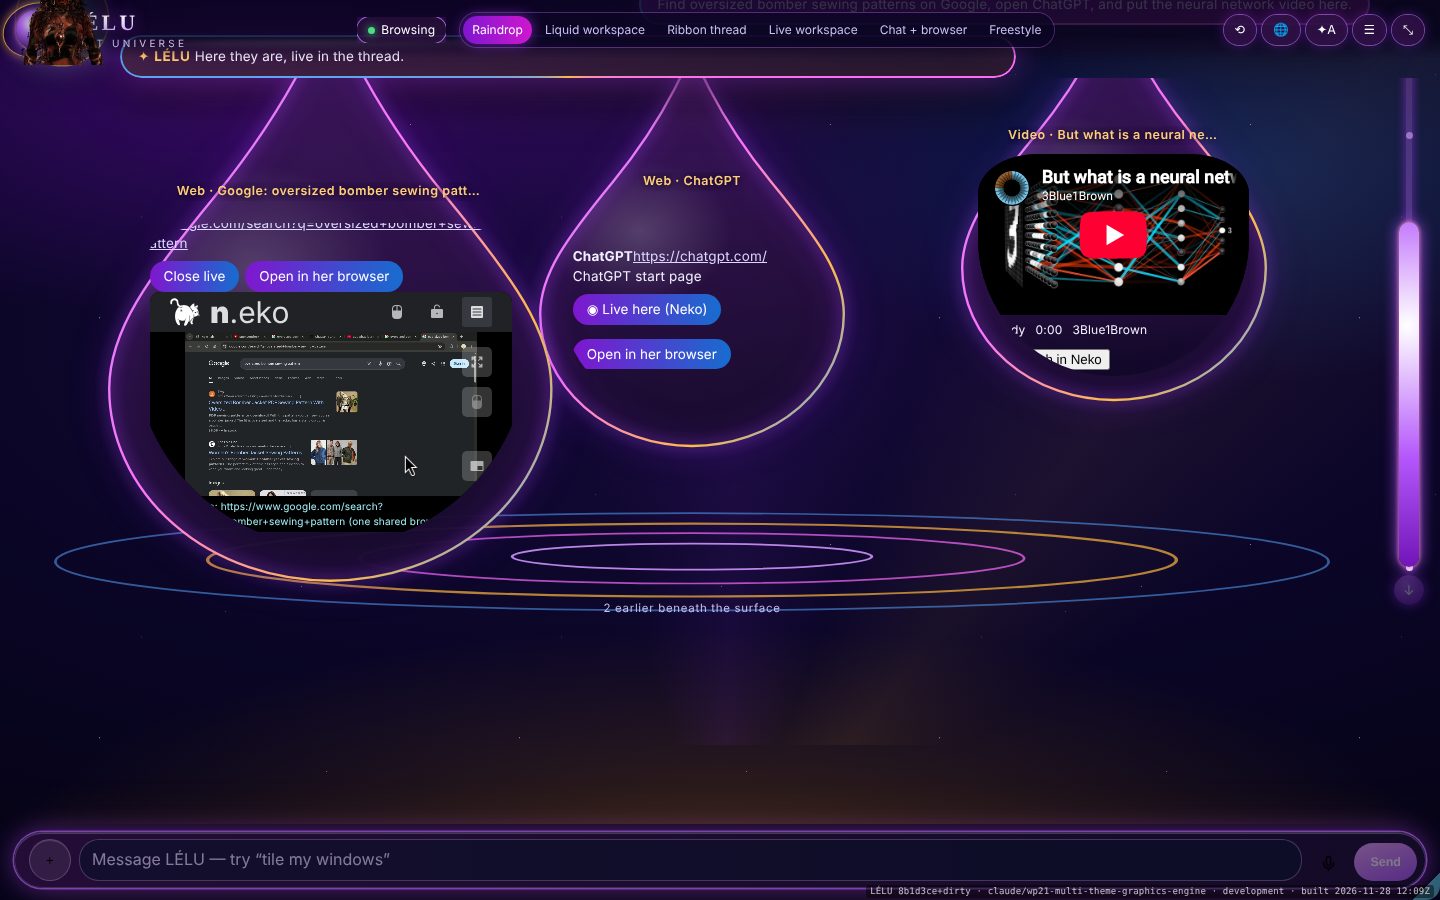
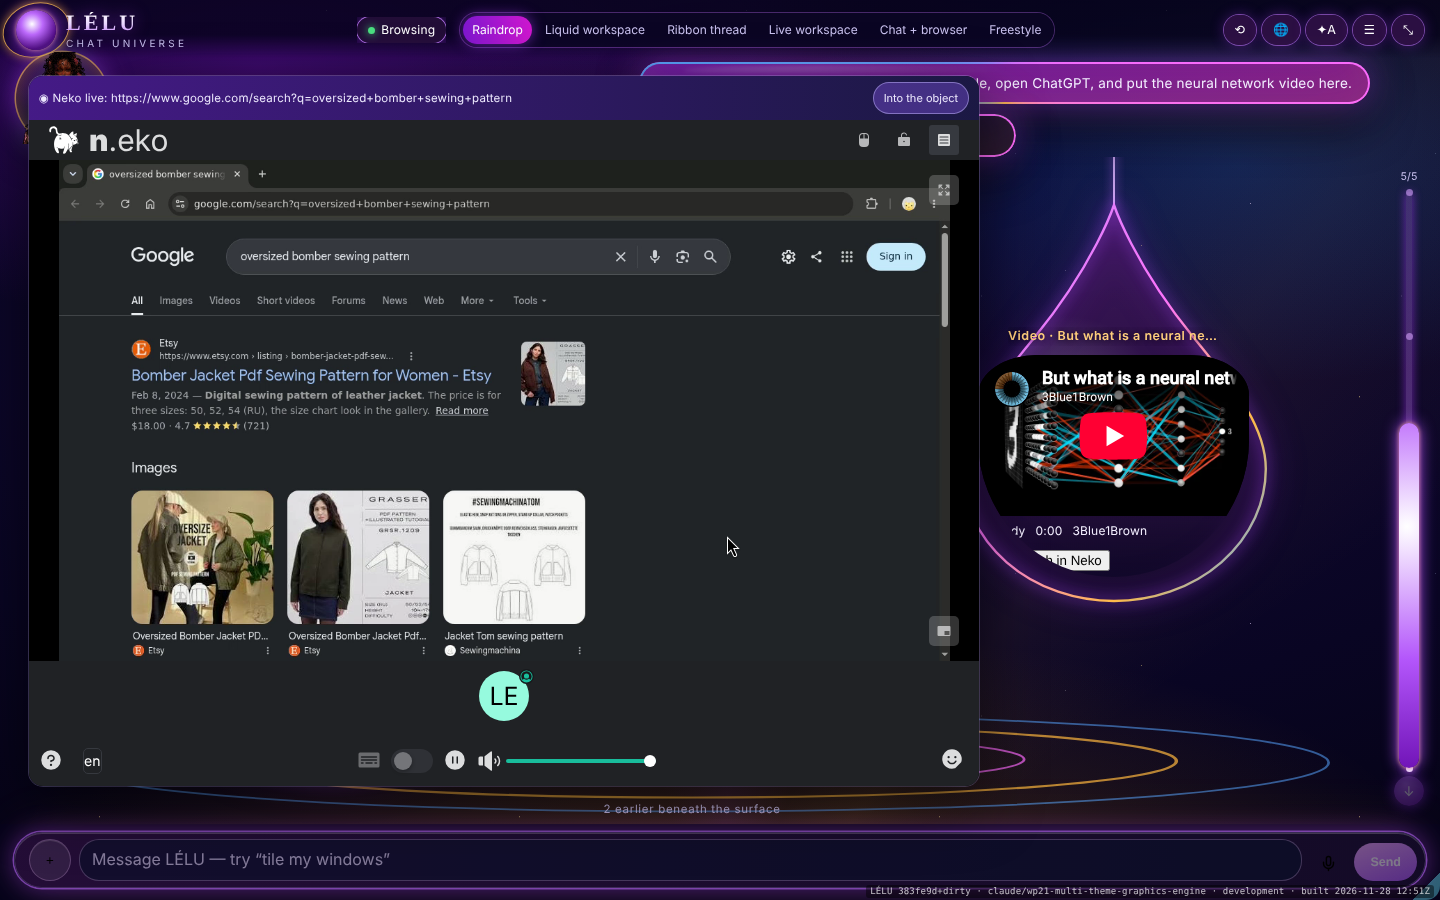
Neko in every thread format with room to read: opens large from small objects, one tab, no restore bubble
Live pages inside a raindrop, a workspace card or a ~200 px Ribbon row were unreadable, so objects
narrower than 560 px or shorter than 460 px open the live view large beside the chat. Neko piled up
tabs because the previous tab was remembered only in the dev server; navigation now closes every other
page tab, in a queue, because two concurrent navigations (React dev effects) closed each other's tabs.
The crash-restore bubble is hidden. All six variants verified live with screenshots.

Claude-Session: https://claude.ai/code/session_017r5V6N97c4ksPFc1eZj1j6

diff --git a/src/app/scene/genesis/neko/NekoLive.tsx b/src/app/scene/genesis/neko/NekoLive.tsx
@@ -9,7 +9,8 @@
  * Neko is ONE browser. Every NekoLive on screen shows that same browser; the most recent navigation wins.
  */
 
-import { useEffect, useState } from "react";
+import { useEffect, useLayoutEffect, useRef, useState, type CSSProperties } from "react";
+import { createPortal } from "react-dom";
 import { getEnvironment } from "../../../../core/Environment";
 
 export type NekoAvailability = "checking" | "reachable" | "unavailable" | "unconfigured";
@@ -63,17 +64,55 @@ export default function NekoLive({ url, height = 360, surface }: { url: string; 
     };
   }, [url]);
 
+  // Room: a live page squeezed into a small object (a raindrop, a workspace card) is unreadable, so in
+  // anything narrower than 560 px, or in an object shorter than 460 px, it opens LARGE beside the chat; "Into the object" puts it back.
+  const anchor = useRef<HTMLDivElement | null>(null);
+  const [large, setLarge] = useState<boolean | null>(null);
+  useLayoutEffect(() => {
+    if (large !== null || !anchor.current) return;
+    // Too narrow, or inside an object too short to show a page (Ribbon rows are ~200 px: measured).
+    const box = anchor.current.getBoundingClientRect();
+    const holder = anchor.current.closest<HTMLElement>("[data-thread-object], .rd-drop");
+    setLarge(box.width < 560 || (holder ? holder.getBoundingClientRect().height < 460 : false));
+  }, [large]);
+
   const fallback = getEnvironment().nekoUrl.trim();
+  const frame = (
+    <iframe
+      src={client ?? fallback}
+      title={`Neko live: ${url}`}
+      allow="clipboard-read; clipboard-write; fullscreen; autoplay; camera; microphone"
+      style={{ flex: 1, width: "100%", border: "none", display: "block" }}
+    />
+  );
+  const status = nav ? (nav.ok ? nav.url : `could not open ${url}`) : `opening ${url}…`;
+  const btn: CSSProperties = { font: "inherit", fontSize: 11, color: "#ede9fe", background: "rgba(139,92,246,0.35)", border: "1px solid rgba(196,181,253,0.5)", borderRadius: 999, padding: "2px 10px", cursor: "pointer" };
+  const attrs = { "data-neko-surface": surface, "data-neko-nav": nav ? (nav.ok ? "ok" : "failed") : "", "data-neko-live": nav?.ok ? nav.url : "", "data-neko-size": large ? "large" : "inline" };
+
+  if (large && typeof document !== "undefined") {
+    return (
+      <div ref={anchor} style={{ fontSize: 11, color: "#c4b5fd", padding: "4px 0" }}>
+        ◉ Live beside the chat{" "}
+        <button type="button" style={btn} onClick={() => setLarge(false)}>Into the object</button>
+        {createPortal(
+          <div className="neko-live neko-live-large" {...attrs} style={{ position: "fixed", left: "2vw", top: 76, width: "min(980px, 66vw)", height: "calc(100vh - 190px)", zIndex: 2147483000, display: "flex", flexDirection: "column", borderRadius: 14, overflow: "hidden", background: "#000", boxShadow: "0 18px 60px rgba(0,0,0,0.6), 0 0 0 1px rgba(196,181,253,0.35)" }}>
+            <div style={{ display: "flex", alignItems: "center", gap: 8, padding: "6px 10px", fontSize: 11.5, color: "#ede9fe", background: "linear-gradient(90deg, rgba(76,29,149,0.9), rgba(30,27,75,0.9))" }}>
+              <span style={{ flex: 1, overflow: "hidden", textOverflow: "ellipsis", whiteSpace: "nowrap" }}>◉ Neko live: {status}</span>
+              <button type="button" style={btn} onClick={() => setLarge(false)}>Into the object</button>
+            </div>
+            {frame}
+          </div>,
+          document.body,
+        )}
+      </div>
+    );
+  }
   return (
-    <div className="neko-live" data-neko-surface={surface} data-neko-nav={nav ? (nav.ok ? "ok" : "failed") : ""} data-neko-live={nav?.ok ? nav.url : ""} style={{ height, display: "flex", flexDirection: "column", borderRadius: 10, overflow: "hidden", background: "#000" }}>
-      <iframe
-        src={client ?? fallback}
-        title={`Neko live: ${url}`}
-        allow="clipboard-read; clipboard-write; fullscreen; autoplay; camera; microphone"
-        style={{ flex: 1, width: "100%", border: "none", display: "block" }}
-      />
-      <div style={{ fontSize: 10, padding: "3px 8px", color: "#a5f3fc", background: "rgba(0,0,0,0.6)" }}>
-        ◉ Neko live: {nav ? (nav.ok ? nav.url : `could not open ${url}`) : `opening ${url}…`} (one shared browser)
+    <div ref={anchor} className="neko-live" {...attrs} style={{ height, display: "flex", flexDirection: "column", borderRadius: 10, overflow: "hidden", background: "#000" }}>
+      {frame}
+      <div style={{ display: "flex", alignItems: "center", gap: 8, fontSize: 10, padding: "3px 8px", color: "#a5f3fc", background: "rgba(0,0,0,0.6)" }}>
+        <span style={{ flex: 1 }}>◉ Neko live: {status} (one shared browser)</span>
+        {large === false ? <button type="button" style={btn} onClick={() => setLarge(true)}>Bigger</button> : null}
       </div>
     </div>
   );

diff --git a/plugins/nekoApi.ts b/plugins/nekoApi.ts
@@ -36,15 +36,24 @@ function readBody(req: ConnectLikeReq): Promise<string> {
  * machine only: NEKO_CDP_URL, default http://127.0.0.1:9222). This is how LÉLU's
  * Browser drives the live Neko session: the address she or the owner types opens there.
  */
-let lastTab: string | null = null;
-async function nekoNavigate(cdp: string, target: string): Promise<{ ok: boolean; detail: string }> {
+// Navigations run one at a time. Two at once (React dev mode runs effects twice) each closed the other's
+// new tab, leaving an empty New Tab: measured.
+let navQueue: Promise<unknown> = Promise.resolve();
+function nekoNavigate(cdp: string, target: string): Promise<{ ok: boolean; detail: string }> {
+  const run = navQueue.then(() => nekoNavigateNow(cdp, target));
+  navQueue = run.catch(() => undefined);
+  return run;
+}
+async function nekoNavigateNow(cdp: string, target: string): Promise<{ ok: boolean; detail: string }> {
   // A new tab per address, brought to the front; the previous tab LÉLU opened is closed.
   // (Page.navigate from Chromium's own new-tab page does not answer, measured.)
   const created = (await (await fetch(`${cdp}/json/new?${target}`, { method: "PUT", signal: AbortSignal.timeout(5000) })).json()) as { id?: string };
   if (!created?.id) return { ok: false, detail: "Neko's browser did not open the page" };
   await fetch(`${cdp}/json/activate/${created.id}`, { signal: AbortSignal.timeout(4000) }).catch(() => undefined);
-  if (lastTab && lastTab !== created.id) await fetch(`${cdp}/json/close/${lastTab}`, { signal: AbortSignal.timeout(4000) }).catch(() => undefined);
-  lastTab = created.id;
+  // Close every other page tab, not only the one remembered here: that memory is lost when the dev
+  // server restarts, and tabs piled up (7 open, measured). One page at a time in her one shared browser.
+  const tabs = (await (await fetch(`${cdp}/json/list`, { signal: AbortSignal.timeout(4000) })).json().catch(() => [])) as { id: string; type: string }[];
+  await Promise.all(tabs.filter((t) => t.type === "page" && t.id !== created.id).map((t) => fetch(`${cdp}/json/close/${t.id}`, { signal: AbortSignal.timeout(4000) }).catch(() => undefined)));
   return { ok: true, detail: "opened in Neko" };
 }
 type Handler = (req: ConnectLikeReq, res: ConnectLikeRes, next: () => void) => void;

diff --git a/leluverse/self/journal/2026-11-28-neko-in-chat-formats.md b/leluverse/self/journal/2026-11-28-neko-in-chat-formats.md
@@ -36,3 +36,30 @@ Remember: Neko is ONE browser. Every live view shows the same Chromium, and the 
 
 What went wrong: the capture script first looked for `data-thread-object`, which Raindrop drops don't carry.
 It now finds objects by their title.
+
+## Second pass: room, one tab, no restore bubble
+
+- **Room.** A live page squeezed into a raindrop, a workspace card or a ~200 px Ribbon row was
+  unreadable. When the object is narrower than 560 px or shorter than 460 px, the live view now opens
+  large (950×710) beside the chat, and "Into the object" puts it back. Chat + browser has room, so it stays
+  inside the object and offers "Bigger". All six formats were checked:
+
+  | Variant | Page | View |
+  |---|---|---|
+  | Freestyle | Google | large |
+  | Liquid workspace | ChatGPT | large |
+  | Chat + browser | YouTube | in the object |
+  | Raindrop | Google | large |
+  | Ribbon thread | ChatGPT | large |
+  | Live workspace | Google | large |
+
+- **One tab.** Neko kept piling up tabs (7, measured): "close the previous tab" was remembered only in the
+  dev server, and that memory reset on restart. Navigation now closes every other page tab.
+  - *What went wrong first:* two navigations at once (React's dev mode runs effects twice) each closed the
+    other's new tab, leaving an empty New Tab. Navigations now queue, one at a time.
+- **"Restore pages?" bubble.** After a crash restart it covered pages. `--hide-crash-restore-bubble` is now
+  in the Dockerfile and applied by `run.sh --refresh-proxy`.
+- **The chat page card was dead code.** `GenesisChatSurface` is not rendered anywhere, so its Neko button
+  is never seen. In normal chat, a page opens the Browser window, which has Neko.
+- **Sites that challenge this server:** ChatGPT's Cloudflare check ("Verify you are human") came up once,
+  and YouTube shows Google's robot check. Both come from this server's network address, not from Neko.
